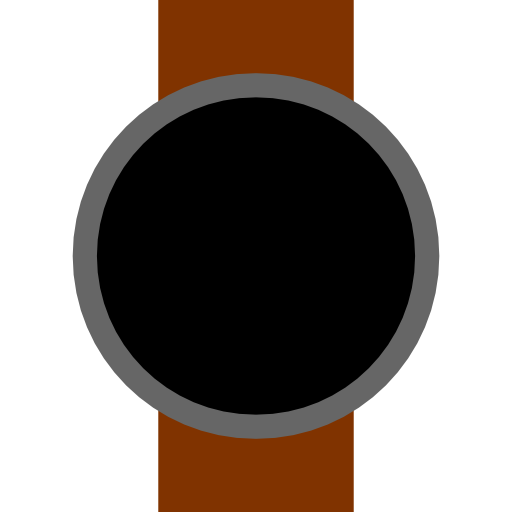
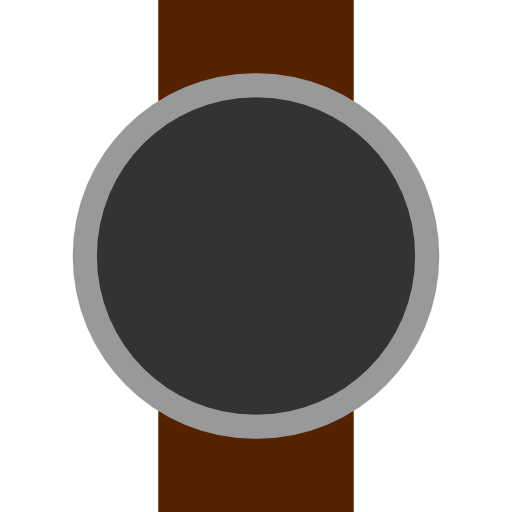
ambient mode

diff --git a/wear/src/main/java/net/redlinesoft/plainwatchface/WearActivity.java b/wear/src/main/java/net/redlinesoft/plainwatchface/WearActivity.java
@@ -1,9 +1,15 @@
 package net.redlinesoft.plainwatchface;
 
 import android.app.Activity;
+import android.content.Context;
 import android.graphics.Color;
+import android.hardware.display.DisplayManager;
 import android.os.Bundle;
+import android.os.Handler;
+import android.os.Looper;
 import android.support.wearable.view.WatchViewStub;
+import android.util.Log;
+import android.view.Display;
 import android.widget.ImageView;
 import android.widget.TextClock;
 
@@ -21,6 +27,36 @@ public class WearActivity extends Activity {
         stub = (WatchViewStub) findViewById(R.id.watch_view_stub);
         textClock = (TextClock) stub.findViewById(R.id.textClock);
         imageView = (ImageView) stub.findViewById(R.id.background);
+
+//        Handler handler = new Handler(Looper.getMainLooper());
+//
+//        final DisplayManager displayManager = (DisplayManager) getSystemService(Context.DISPLAY_SERVICE);
+//        displayManager.registerDisplayListener(new DisplayManager.DisplayListener() {
+//            @Override
+//            public void onDisplayAdded(int displayId) {
+//
+//            }
+//
+//            @Override
+//            public void onDisplayRemoved(int displayId) {
+//
+//            }
+//
+//            @Override
+//            public void onDisplayChanged(int displayId) {
+//                try {
+//                    if (displayManager.getDisplay(displayId).getState() == Display.STATE_DOZING) {
+//                        //updateFaceDisplay(true);
+//                        Log.d(TAG, "onDisplayChanged: dozing");
+//                    } else {
+//                        //updateFaceDisplay(false);
+//                        Log.d(TAG, "onDisplayChanged: not dozing");
+//
+//                    }
+//                } catch (NullPointerException exception) {
+//                }
+//            }
+//        }, handler);
         
     }
     
@@ -47,13 +83,5 @@ public class WearActivity extends Activity {
         setBackground(Color.BLACK);
     }
     
-    @Override
-    protected void onDestroy() {
-        super.onDestroy();
-    }
-
-    @Override
-    protected void onStop() {
-        super.onStop();
-    }
+  
 }
